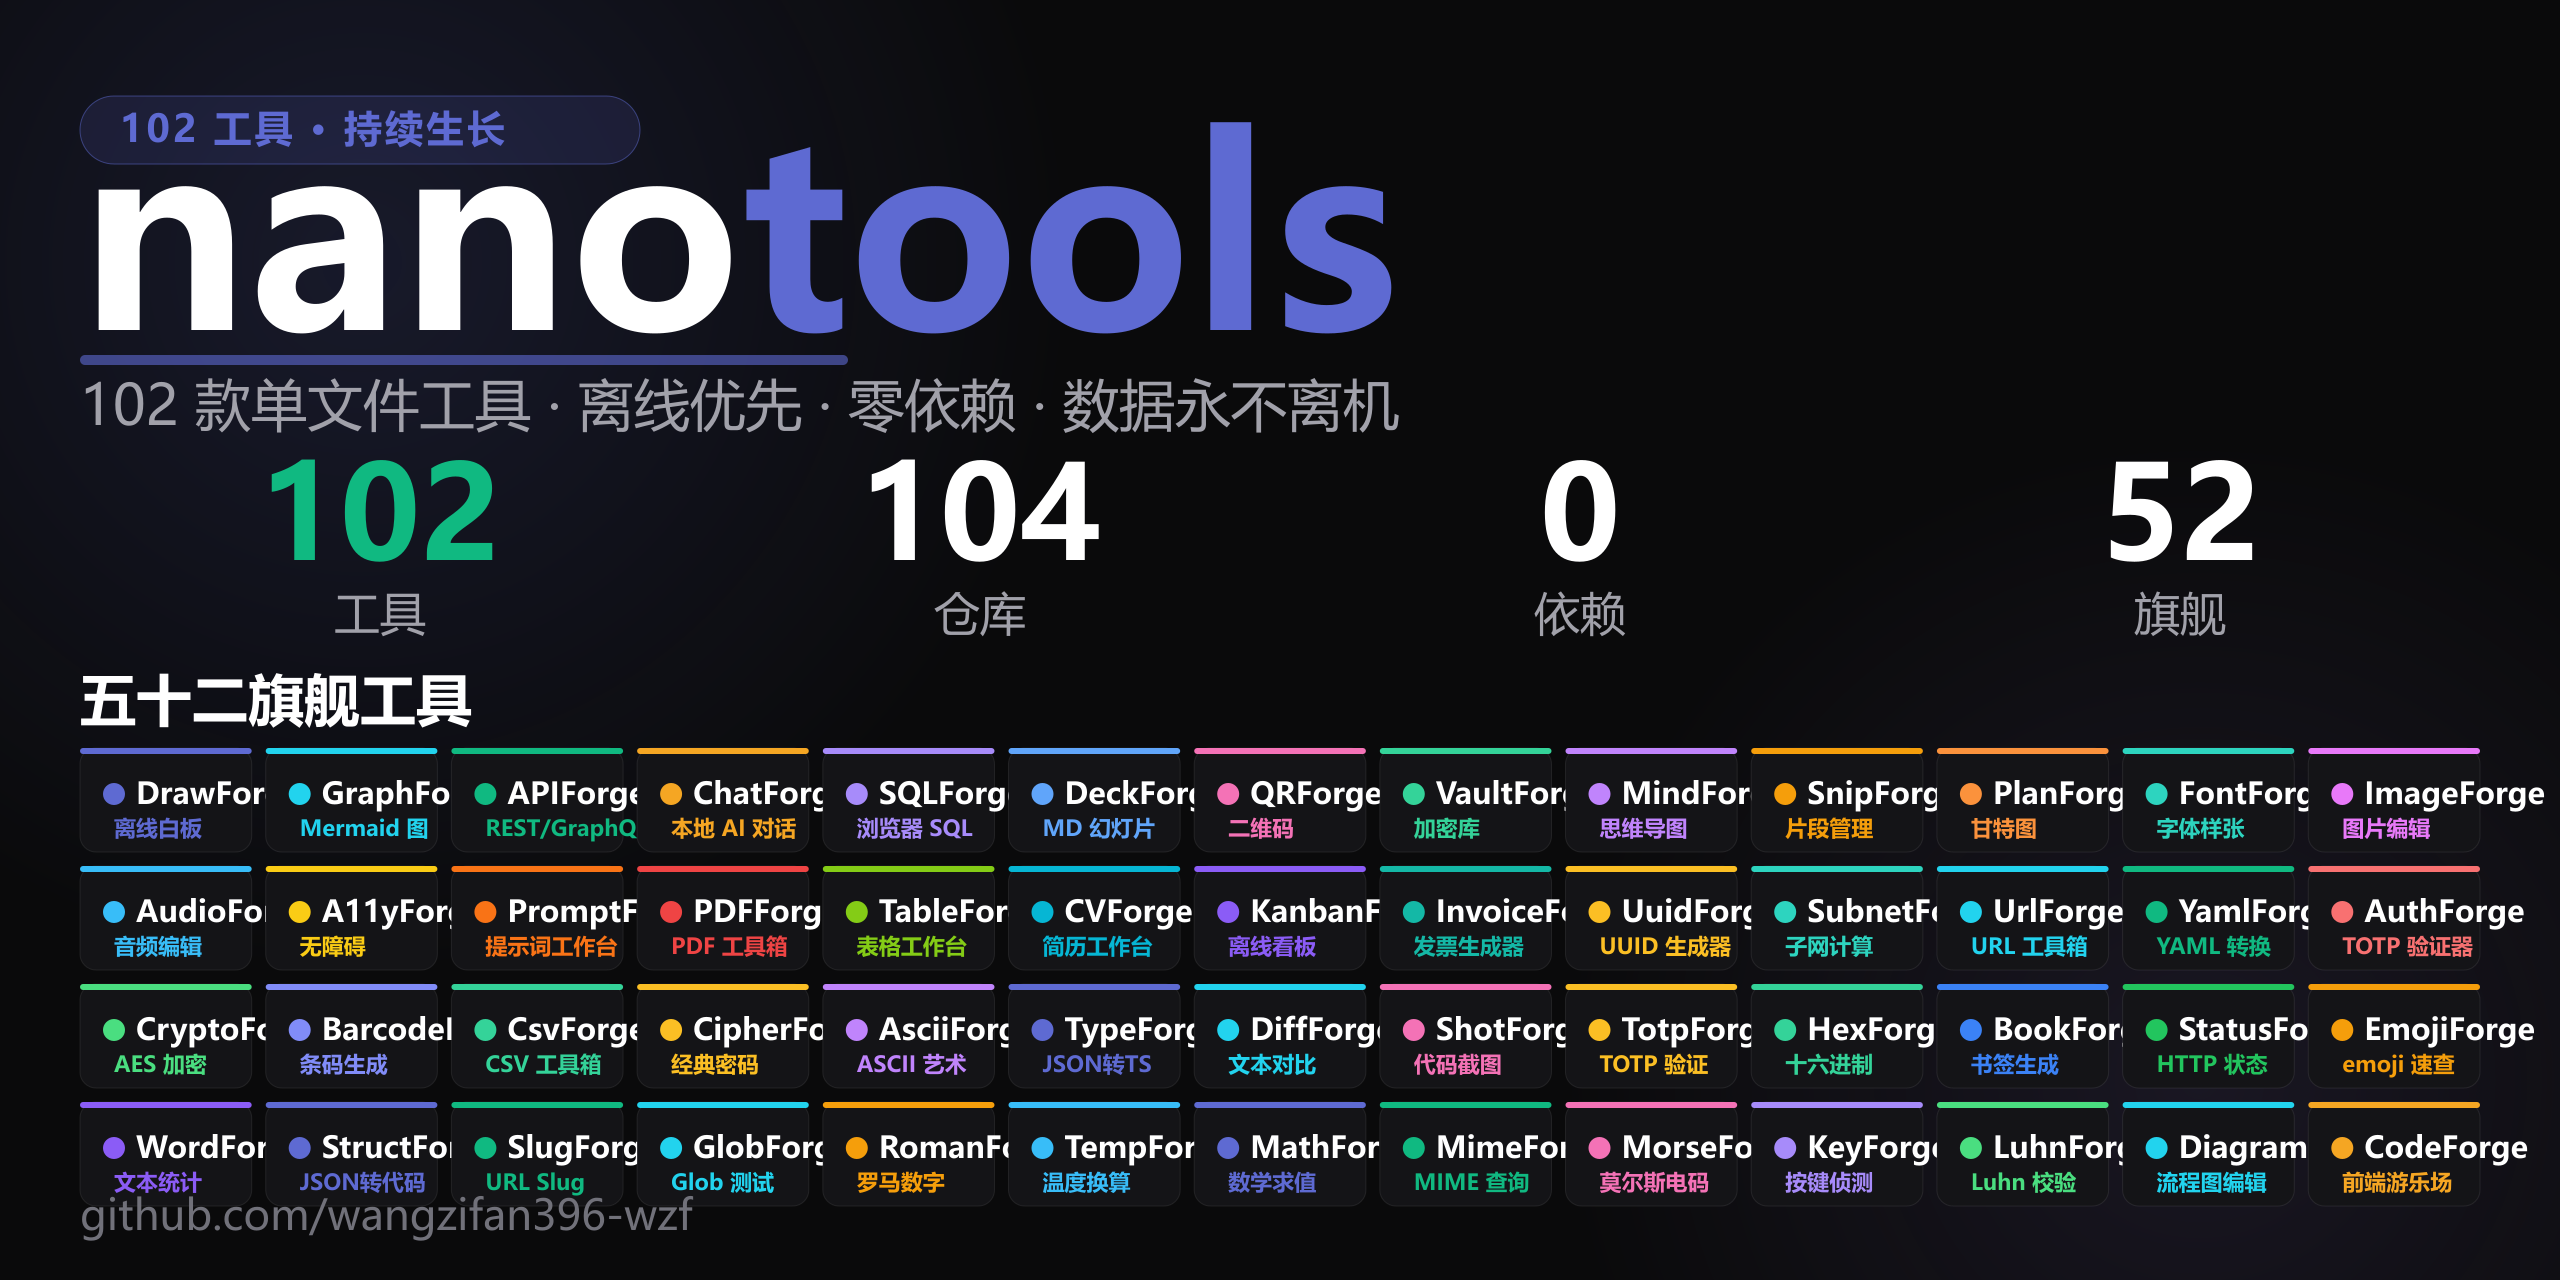
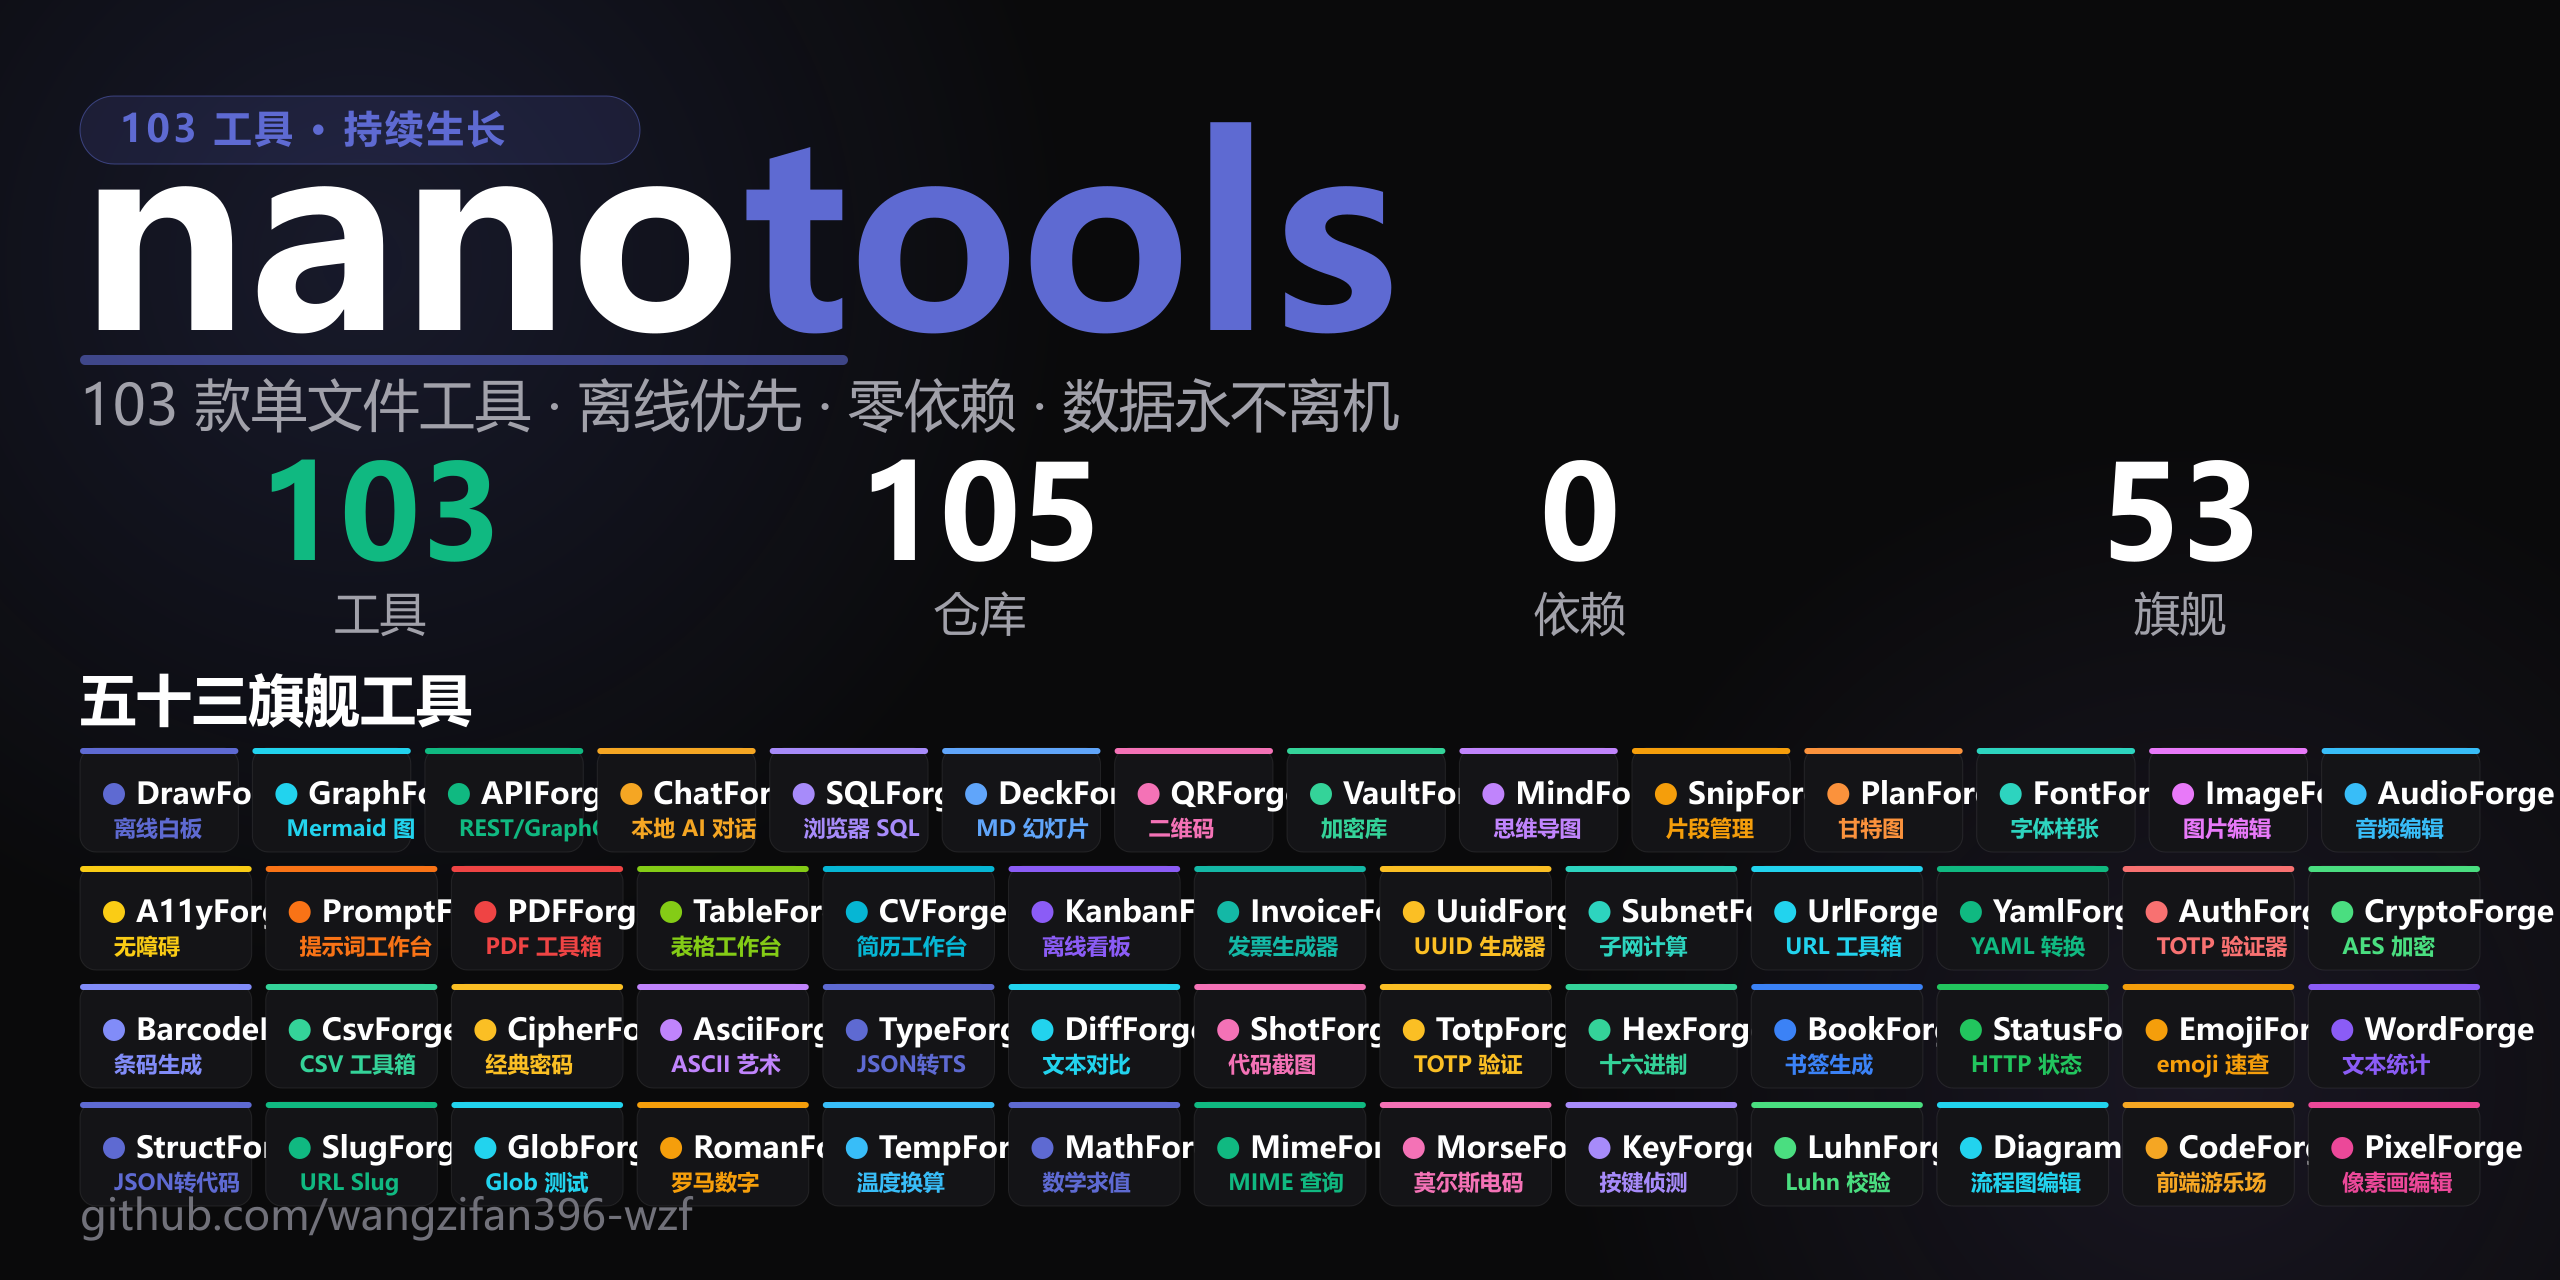
Sync og/promo assets (103 tools / 105 repos / 53 flagships)

diff --git a/README.md b/README.md
@@ -3,7 +3,7 @@
   <img src="https://img.shields.io/github/forks/wangzifan396-wzf/WB?style=flat-square" alt="Forks">
   <img src="https://img.shields.io/github/issues/wangzifan396-wzf/WB?style=flat-square" alt="Issues">
   <img src="https://img.shields.io/github/last-commit/wangzifan396-wzf/WB?style=flat-square" alt="Last Commit">
-  <img src="https://img.shields.io/badge/tools-102-5E6AD2?style=flat-square" alt="102 Tools">
+  <img src="https://img.shields.io/badge/tools-103-5E6AD2?style=flat-square" alt="103 Tools">
   <img src="https://img.shields.io/badge/dependencies-zero-2EA043?style=flat-square" alt="Zero Dep">
   <img src="https://img.shields.io/github/license/wangzifan396-wzf/WB?style=flat-square" alt="License">
 </p>
@@ -16,7 +16,7 @@
 
 # nano-tools · 单文件工具集门户
 
-**102 款单文件、零依赖、本地优先的开发者工具**的总入口（104 个仓库 · 52 款旗舰 ⭐）。每个工具都是一个 `index.html`——无需安装、无需构建、无需联网，下载即用，数据永远留在你的浏览器里。
+**103 款单文件、零依赖、本地优先的开发者工具**的总入口（105 个仓库 · 53 款旗舰 ⭐）。每个工具都是一个 `index.html`——无需安装、无需构建、无需联网，下载即用，数据永远留在你的浏览器里。
 
 ## 为什么是 nano-tools
 
@@ -25,7 +25,7 @@
 - **本地优先**：所有计算在你的浏览器内完成，数据永不上传。
 - **独立仓库**：每个工具一个仓库，可单独 fork / star / 魔改，互不牵连。
 
-## 🧰 工具矩阵（102 款 · ⭐ = 旗舰）
+## 🧰 工具矩阵（103 款 · ⭐ = 旗舰）
 
 | 工具 | 分类 | 简介 |
 |------|------|------|
@@ -131,6 +131,7 @@
 | [LuhnForge](https://wangzifan396-wzf.github.io/LuhnForge/) ⭐ | 开发辅助 | 离线 Luhn 校验：银行卡号模 10 校验、卡组织识别（Visa/银联等）、校验位补全。 |
 | [DiagramForge](https://wangzifan396-wzf.github.io/DiagramForge/) ⭐ | 可视化 | 离线流程图编辑器：节点+连线结构化绘图，4 种形状、拖拽连线、撤销重做、自动布局，导出 SVG/JSON。 |
 | [CodeForge](https://wangzifan396-wzf.github.io/CodeForge/) ⭐ | 开发辅助 | 离线前端游乐场：HTML/CSS/JS 三栏编辑 + 沙箱 iframe 实时预览 + 控制台捕获，可导出独立 HTML。 |
+| [PixelForge](https://wangzifan396-wzf.github.io/PixelForge/) ⭐ | 图像工具 | 离线像素画 / 精灵图编辑器：画笔、橡皮、填充、取色、直线、矩形、X 轴镜像、网格缩放、24 色调色板、动画帧+洋葱皮+FPS 预览，导出 PNG@Nx 与雪碧图，localStorage 多项目管理。 |
 | [nano-workbench](https://wangzifan396-wzf.github.io/nano-workbench/) | 聚合器 | 全矩阵聚合工作台：一个页面装下全部工具，模糊搜索、iframe 内嵌打开。 |
 
 ## 快速使用
@@ -142,7 +143,7 @@
 ## 质量保障
 
 - 每个工具都带 `_test.js`（纯函数断言）+ `smoke.js`（jsdom 冒烟），CI 全绿。
-- 全矩阵回归：`run_matrix_tests.py` 一键跑 102 工具测试。
+- 全矩阵回归：`run_matrix_tests.py` 一键跑 103 工具测试。
 
 ## License
 
